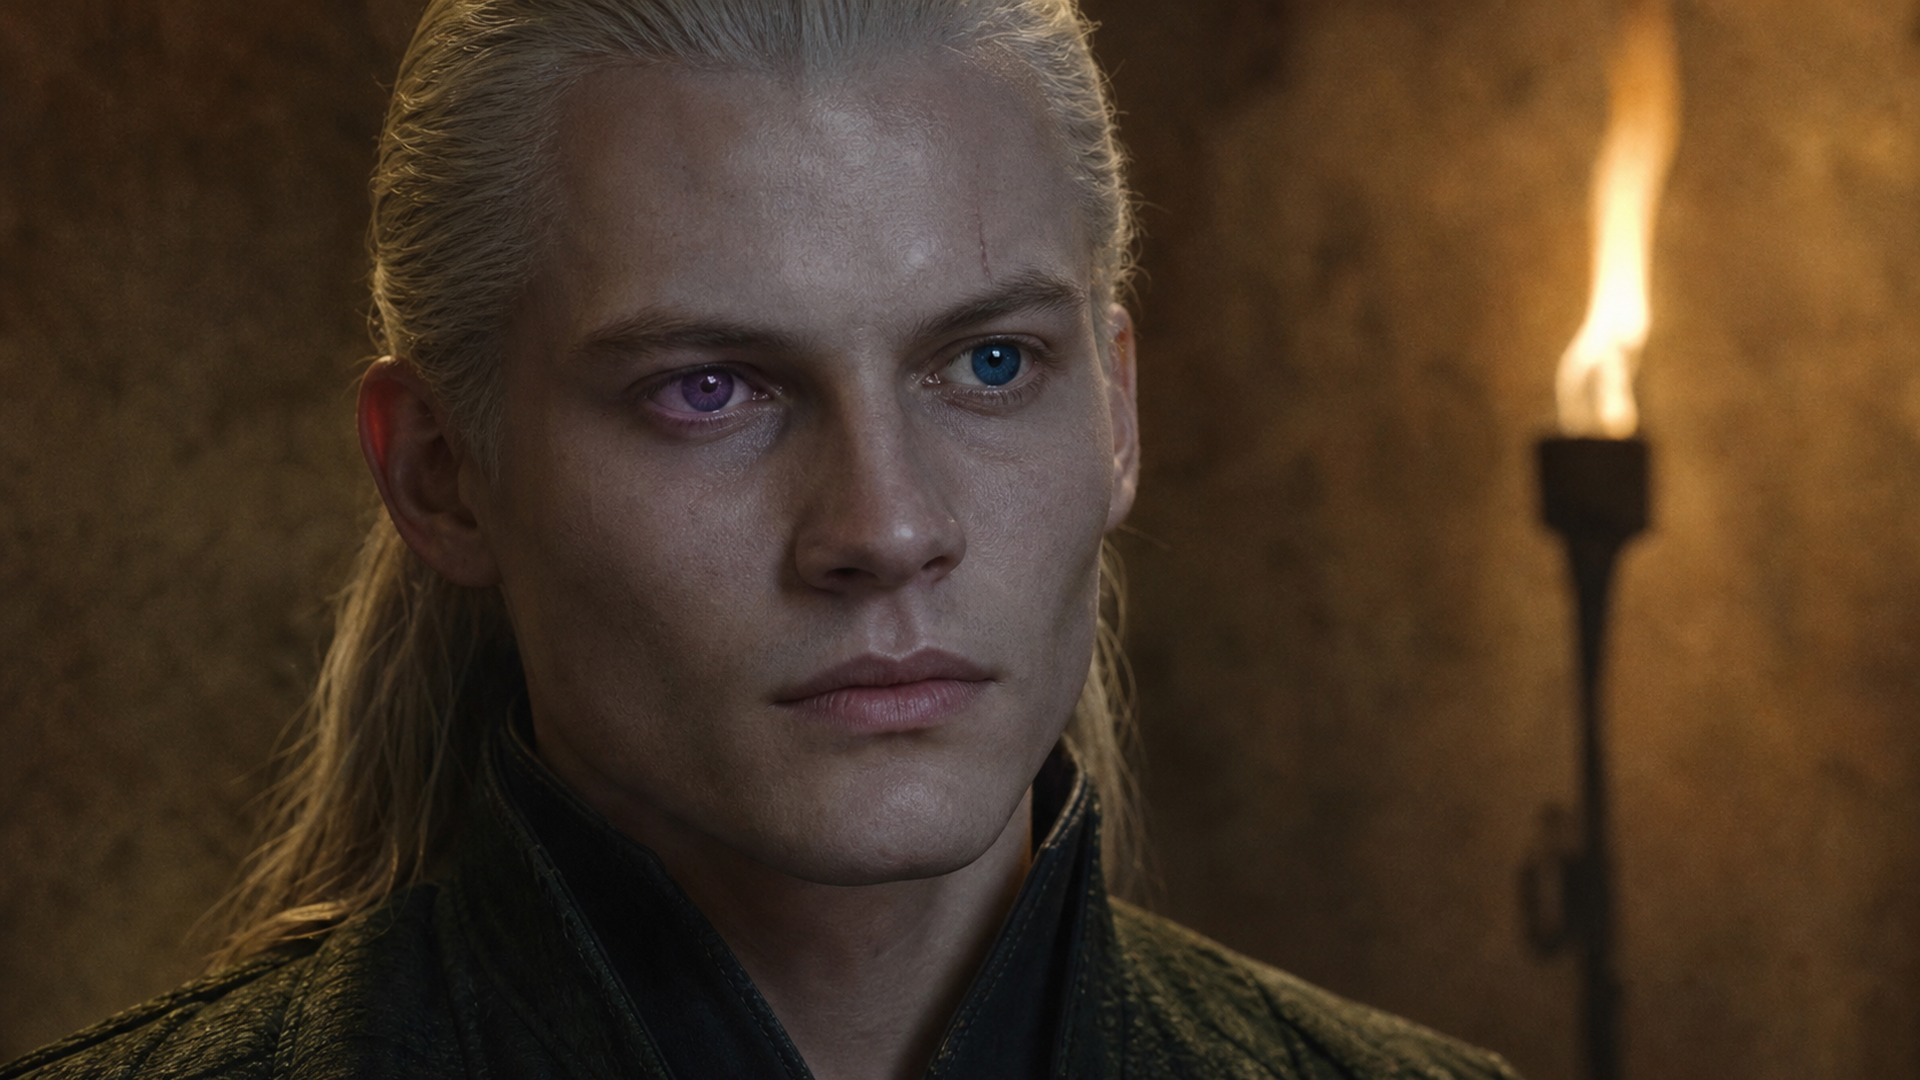
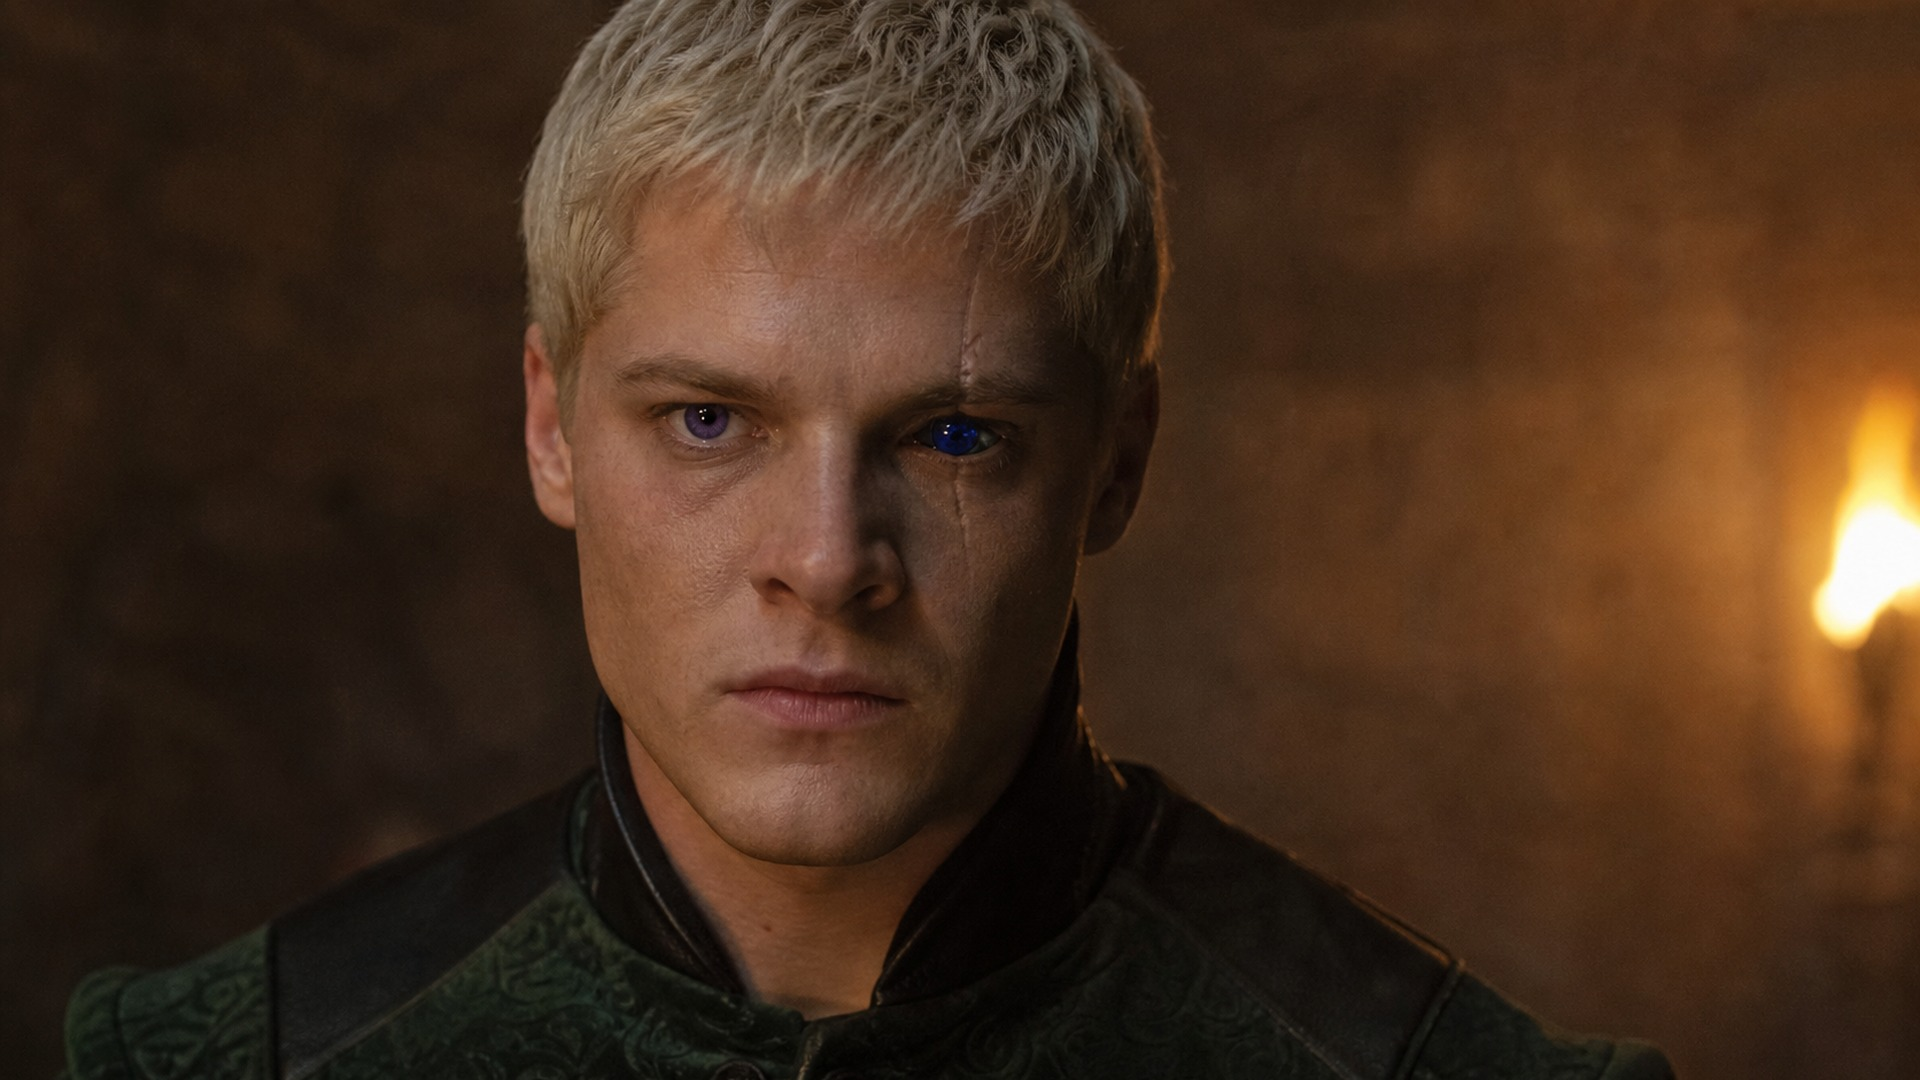
GOT003: BATCH010 10/10; BATCH011 9 PASS/1 pending; BATCH012 started; plan through VI-42; tracker v2.83

diff --git a/projects/dune_archives/tools/plans/got003_plan.py b/projects/dune_archives/tools/plans/got003_plan.py
@@ -144,9 +144,19 @@ PLAN = [
  ('V', 48, None, N('ARRAX_VHAGAR_STORM', 'EW', [], 'a violent storm at night over a rocky bay with huge waves: a small young pearl-white dragon with a tiny rider fleeing through rain and lightning, pursued by a colossal ancient bronze dragon with blue-green tints many times its size, seen from far below, no gore', [8]), 'PUSH_IN'),
  ('V', 53, None, N('BLOOD_AND_CHEESE', 'EST', [], 'two hooded shadowy figures creeping down a narrow dark spiral stair inside a red stone castle at night, one huge and one small and ratlike, lit only by a distant torch, rats on the steps, menacing, faces hidden, no violence shown'), 'PUSH_IN'),
  ('V', 54, None, N('ROOKS_REST', 'EW', [], 'three dragons battling in the sky above a small seaside castle: an old scarlet dragon with a copper crest, a shining golden dragon, and a colossal bronze dragon with blue-green tints, fire and smoke, the castle tiny below, seen from far away, dramatic overcast light, no gore', [8]), 'PAN_LR'),
- ('V', 63, None, N('NETTLES_SHEEP', 'EST', [], 'a thin dark-skinned girl of about fifteen with a mess of black hair, an invented original face, in ragged brown clothes, standing calmly on a windswept rocky hillside offering a freshly roasted sheep to a wild lean mud-brown dragon that crouches warily before her, misty sea cliffs behind, patient and brave, restrained'), 'PUSH_IN'),
+ ('V', 63, None, N('NETTLES_SHEEP', 'EST', [], 'a thin young woman with brown skin and a mess of black hair, an invented original face, in a plain brown cloak, standing calmly on a windswept rocky hillside near a woolly sheep, a wild lean mud-brown dragon crouching curiously in front of her, she holds out one open hand toward it, misty sea cliffs behind, patient and brave, restrained'), 'PUSH_IN'),
  ('V', 69, None, N('DRAGONPIT_NIGHT', 'EW', [], 'the great domed stone dragonpit on a hill at night seen from far across the city, its dome cracked open and burning, smoke pouring into the sky, thousands of tiny torches swarming up the hill toward it, ominous, no close figures'), 'PUSH_IN'),
  ('V', 77, None, 'DRAGONS_CLASH', 'PUSH_IN'),
  ('V', 80, None, N('DRAGONS_FALL_LAKE', 'EW', [], 'two huge dragons, one long and blood-red, one colossal and bronze, locked together and plunging out of a dark stormy sky into a vast black lake, a huge column of water exploding upward, lightning, seen from the far shore, no gore', [8]), 'TILT_DN'),
  ('V', 82, None, N('SUNFYRE_DRAGONSTONE', 'EST', [], 'a scarred golden dragon with a torn half-healed wing crouched in the courtyard of a black stone castle with dragon-shaped towers, under a grey sky, a heavily scarred young king leaning on a cane standing beside it seen from behind, grim, no violence shown'), 'PUSH_IN'),
+ ('VI', 1, None, N('AEGON_III_BROKEN', 'MS', [], 'King Aegon III as a young man of about seventeen, thin and melancholy with lank natural pale silver hair hanging to his shoulders, a gaunt hollow-cheeked face with a long narrow nose and dark haunted purple eyes, an invented original ordinary face, NO crown, dressed all in black, seen in three-quarter profile, sitting alone on a window seat in a dim red stone chamber, looking out at an empty grey sky, restrained, the only figure in the image'), 'PUSH_IN'),
+ ('VI', 8, None, N('LAST_DRAGON', 'EST', [], 'inside a vast dim domed stone dragonpit, a single small, thin, sickly pale-green dragon lying curled on the stone floor, its wings stunted, ribs showing, eyes half closed, a shaft of grey light from a crack in the dome, dust, utterly lonely, NO people'), 'PUSH_IN'),
+ ('VI', 11, None, N('EASTERN_MAGES', 'EST', [], 'nine robed mages from distant eastern lands in exotic robes of many colours, faces in shadow, standing in a circle in a dark stone chamber around a great iron brazier where several large stone-like dragon eggs rest in the coals, smoke, chanting, mysterious, an unseen king watching from the shadows'), 'PUSH_IN'),
+ ('VI', 16, None, N('DAERON_YOUNG_DRAGON', 'EST', [], 'King Daeron I, a bold bright boy king of fourteen with natural pale silver-gold hair and an eager confident face, an invented original face, in gilded black armour on a white horse, leading a long column of soldiers through a narrow pass between red mountains, banners of plain black and red, harsh sunlight, restrained'), 'PAN_LR'),
+ ('VI', 19, None, N('SUNSPEAR', 'EW', [], 'Sunspear, a sand-coloured castle-palace by a turquoise sea as described in the books: a great slender tower, a huge golden dome of gold and glass, a tall spire, layers of curving sandstone walls winding through a small dusty town, palm trees, harsh golden sunlight, NO people close up'), 'PULL_OUT'),
+ ('VI', 26, None, N('BAELOR_BAREFOOT', 'EW', [], 'King Baelor the Blessed, a thin pale ascetic young man with natural silver-gold hair cut short, an invented original face, in a simple rough undyed septon\'s robe, walking barefoot alone along a stony track through red mountains and desert under a fierce sun, a wooden staff, his feet dusty, serene, seen at a distance'), 'PAN_LR'),
+ ('VI', 28, None, N('VIPER_PIT', 'EST', [], 'a deep stone pit in a desert fortress writhing with hundreds of vipers, a thin barefoot man in a plain undyed robe calmly climbing down into it toward an iron cage hanging above the pit in which a tall knight in white is imprisoned, harsh shafts of sunlight from above, tense, no gore'), 'PUSH_IN'),
+ ('VI', 34, None, N('MAIDENVAULT', 'EST', [], 'three young princesses with natural pale silver-gold hair in plain grey gowns gazing out from the narrow barred window of a tall red stone tower at dusk, seen from outside and below, invented original faces, wistful and trapped, restrained'), 'TILT_UP'),
+ ('VI', 35, None, N('GREAT_SEPT', 'EW', [], 'the Great Sept of Baelor as described in the books: a vast seven-sided temple of white marble with a great dome and seven tall slender crystal towers, rainbow light glinting from the crystal, standing on a hill over a medieval city at sunrise, broad steps, NO arches in the foreground'), 'PULL_OUT'),
+ ('VI', 42, None, N('AEGON_IV_UNWORTHY', 'MS', [], 'King Aegon IV, a hugely fat vain middle-aged king with greasy thinning silver-gold hair, small greedy eyes and heavy jowls, an invented original face, in gaudy jewelled crimson silk with a gold crown, lounging at a lavish feast surrounded by beautiful women and piled food, a smug look, restrained'), 'PUSH_IN'),
 ]

diff --git a/projects/dune_archives/00_master/MASTER_INDEX_AND_TRACKER.md b/projects/dune_archives/00_master/MASTER_INDEX_AND_TRACKER.md
@@ -759,5 +759,6 @@ Index/QC v21 Doc: `1Xd5uubuVr8HSOOF7w4-m3S2es9A0PhxvI7hFvTYLZpw`. S012/S016 turn
 | v2.80 | 2026-11-28 | GOT003 S077–S080 PASS → BATCH008 10/10. Plan extended through IV-34 (90 stills). BATCH009: S081, S083, S084, S085, S087 PASS; **S082 ALYSANNE_PORTRAIT REDO** (read like the HBO Daenerys look); S086 (needs S082 ref), S088–S090 pending. |
 | v2.81 | 2026-11-28 | GOT003 S082 Alysanne redo PASS (original look), S086, S088–S090 PASS → BATCH009 10/10. Plan extended through V-36 (100 stills). BATCH010 S091–S095 PASS (Viserys, dragons high summer, young Rhaenyra, lords swear, Alicent). S096–S100 pending. 95/100 done. |
 | v2.82 | 2026-11-28 | GOT003 S096–S099 PASS, **S100 AEMOND_SAPPHIRE REDO** (elfin/actor-like, sapphire reads as eye). Plan extended through V-82 (110 stills). BATCH011 S101, S102, S104, S105 PASS; **S103 RHAENYRA_CROWNED REDO** (too close to HBO look). S106–S110 pending. |
+| v2.83 | 2026-11-28 | GOT003 S100, S103 redos PASS → BATCH010 10/10. S106, S108–S110 PASS; **S107 NETTLES blocked by content filter** (rephrased). Plan extended through VI-42 (120 stills). BATCH012 S112, S113 PASS; **S111 AEGON_III REDO** (read like the GoT Joffrey actor). |
 
 > Turn 22 note: the old manifests v11, continuity v1.4 and original tracker Doc have their Drive descriptions set to SUPERSEDED, pointing at the new IDs above. The Drive tracker v2.12 Doc is a snapshot taken before its own ID was added here.
